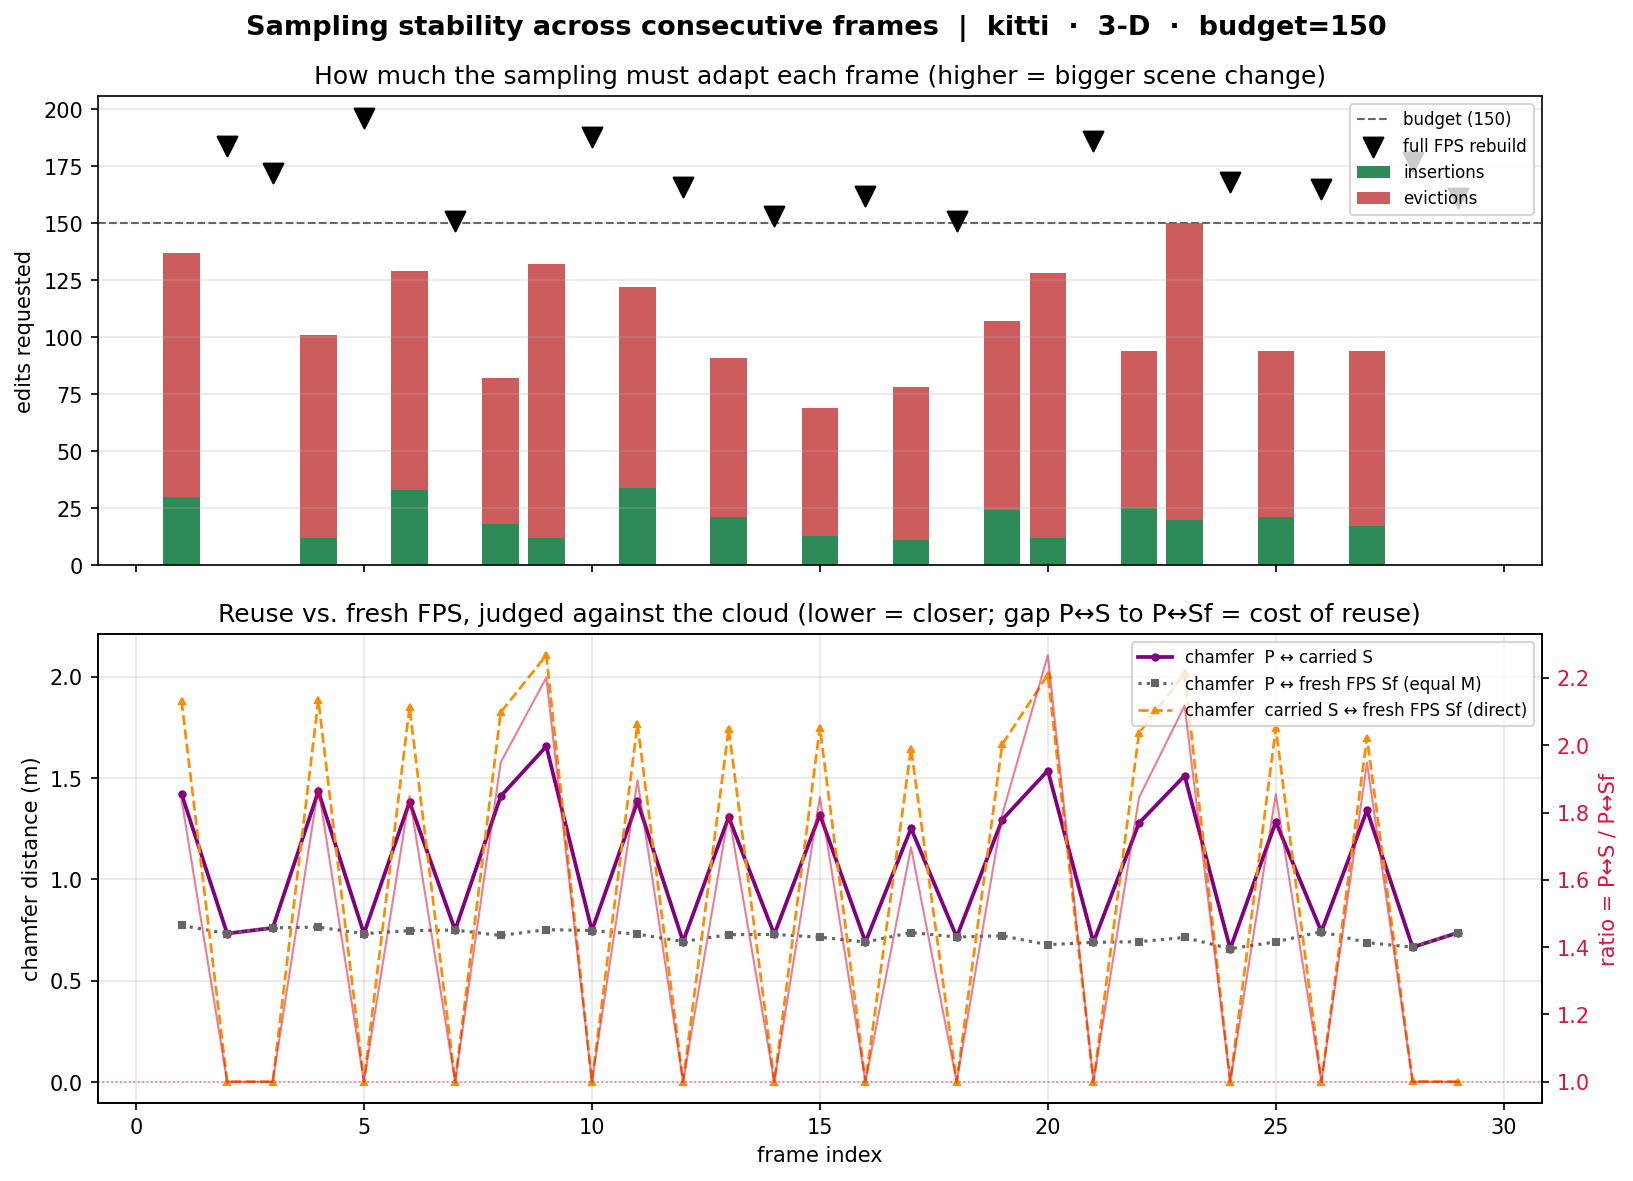
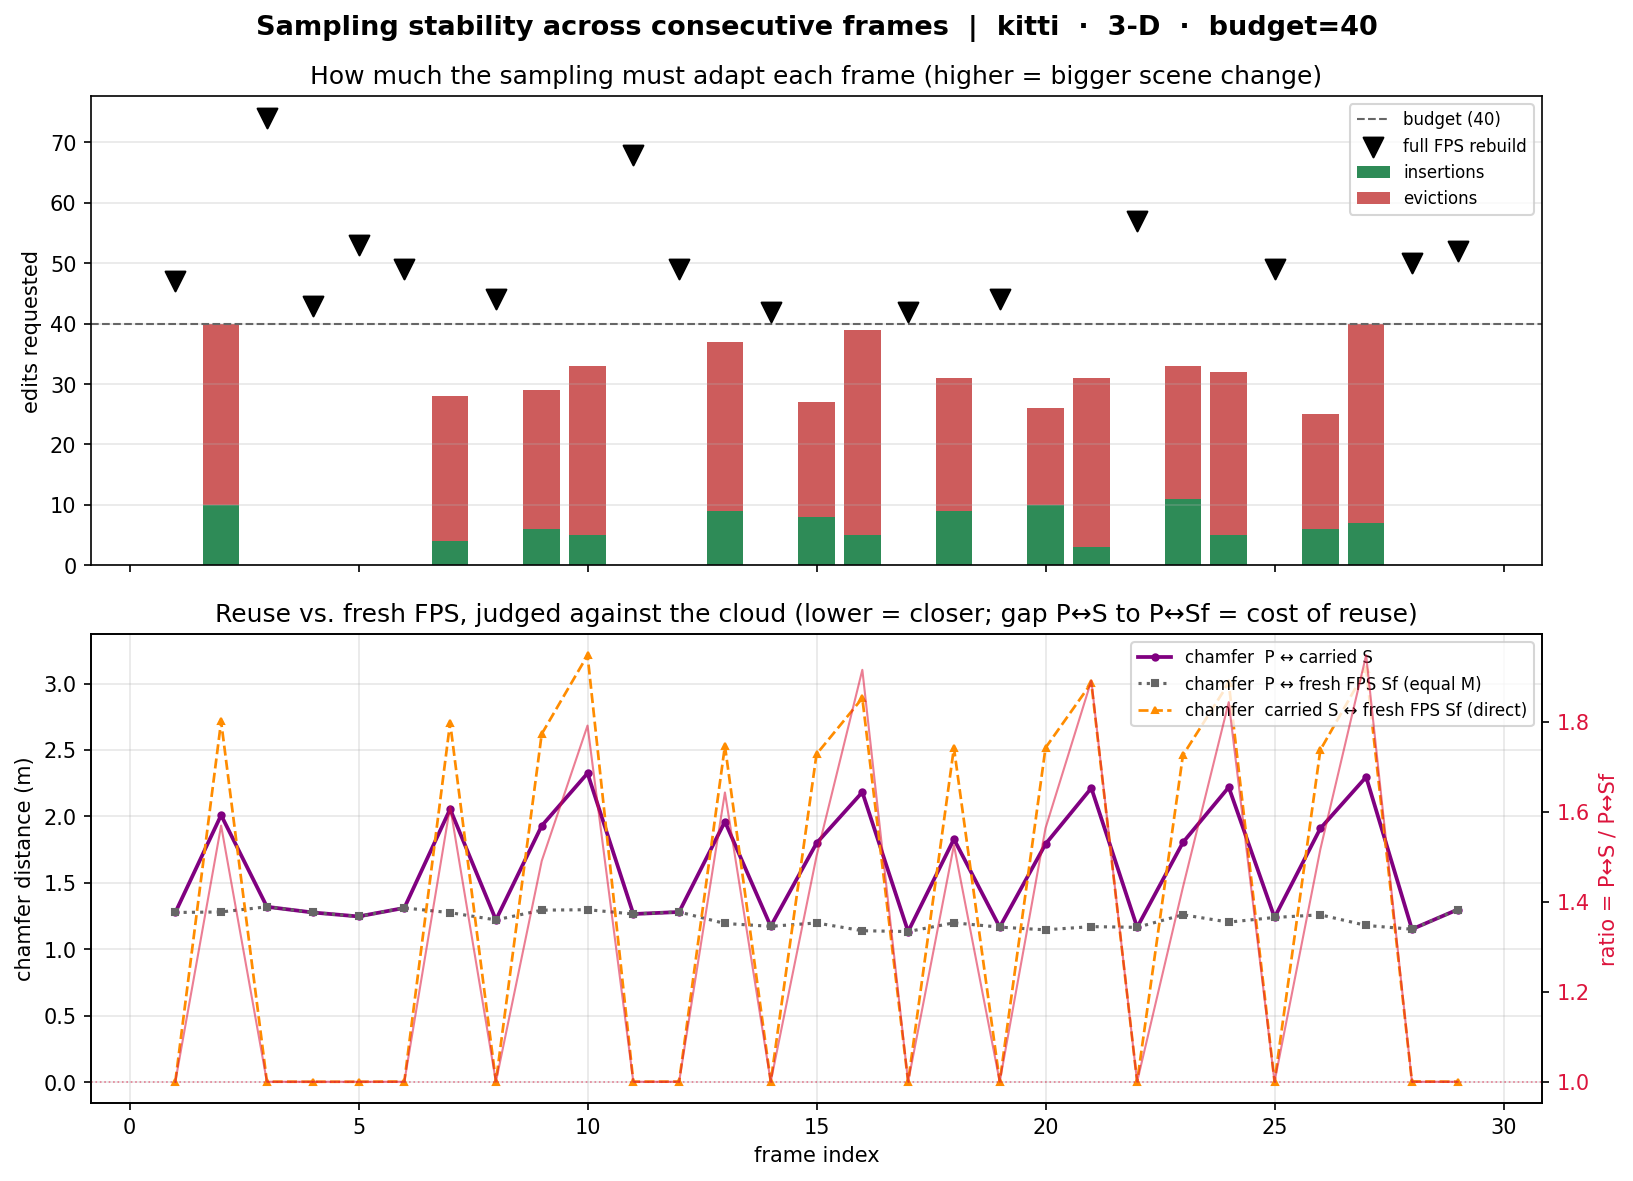
feat: centralize configuration parameters in config.py and update demos to use them

diff --git a/config.py b/config.py
@@ -1,0 +1,59 @@
+import os
+from pathlib import Path
+
+_ENV_FILE = Path(__file__).resolve().parent / ".env"
+
+
+def _load_dotenv(path: Path) -> dict[str, str]:
+    """Parse a flat ``KEY=VALUE`` .env file. Blank lines, ``#`` comments and
+    inline ``# ...`` trailers are ignored; surrounding quotes are stripped."""
+    out: dict[str, str] = {}
+    if not path.exists():
+        return out
+    for raw in path.read_text().splitlines():
+        line = raw.strip()
+        if not line or line.startswith("#") or "=" not in line:
+            continue
+        key, _, val = line.partition("=")
+        val = val.split("#", 1)[0].strip().strip('"').strip("'")
+        out[key.strip()] = val
+    return out
+
+
+_DOTENV = _load_dotenv(_ENV_FILE)
+
+
+def _get(key: str, default):
+    """OS env overrides .env, which overrides the built-in default."""
+    if key in os.environ:
+        return os.environ[key]
+    if key in _DOTENV:
+        return _DOTENV[key]
+    return default
+
+
+def get_int(key: str, default: int) -> int:
+    return int(_get(key, default))
+
+
+def get_float(key: str, default: float) -> float:
+    return float(_get(key, default))
+
+
+def get_str(key: str, default: str) -> str:
+    return str(_get(key, default))
+
+
+def get_bool(key: str, default: bool) -> bool:
+    v = _get(key, default)
+    if isinstance(v, bool):
+        return v
+    return str(v).strip().lower() in ("1", "true", "yes", "on")
+
+
+# ── Shared run parameters ────────────────────────────────────────────────────
+SAMPLES   = get_int("SAMPLES", 64)         # FPS sample count (M), all demos
+DIMS      = get_int("DIMS", 3)             # 2 = top-down view, 3 = full 3-D
+MAX_RANGE = get_float("MAX_RANGE", 40.0)   # horizontal crop radius, metres
+MIN_Z     = get_float("MIN_Z", -1.5)       # ground-removal height, metres
+BUDGET    = get_int("BUDGET", 40)          # max edits/frame before full FPS rebuild

diff --git a/phase_3/temporal_demo.py b/phase_3/temporal_demo.py
@@ -15,8 +15,7 @@ sys.path.insert(0, os.path.join(_HERE, ".."))
 from data_io import list_frames, load_lidar_bin, chamfer_distance  # noqa: E402
 from fps import farthest_point_sampling             # noqa: E402
 from correct import correct                         # noqa: E402
-
-NUM_SAMPLES = 1024
+import config                                        # noqa: E402
 
 def _resize_to(P, S, target):
     """Hold the sample count at exactly ``target``.
@@ -49,18 +48,19 @@ def main():
     ap.add_argument("--dataset", choices=["nuscenes", "kitti"], default="nuscenes")
     ap.add_argument("--start", type=int, default=0, help="First frame index")
     ap.add_argument("--num-frames", type=int, default=30)
-    ap.add_argument("--dims", type=int, choices=[2, 3], default=3)
-    ap.add_argument("--max-range", type=float, default=40.0)
-    ap.add_argument("--min-z", type=float, default=-1.5)
-    ap.add_argument("--samples", type=int, default=NUM_SAMPLES)
+    ap.add_argument("--dims", type=int, choices=[2, 3], default=config.DIMS)
+    ap.add_argument("--max-range", type=float, default=config.MAX_RANGE)
+    ap.add_argument("--min-z", type=float, default=config.MIN_Z)
+    ap.add_argument("--samples", type=int, default=config.SAMPLES)
     ap.add_argument("--fixed-samples", action=argparse.BooleanOptionalAction,
                     default=True,
                     help="Hold the sample count constant at --samples every frame "
                          "(top up worst-covered spots / trim most-redundant samples "
                          "after each correction). Use --no-fixed-samples to let M "
                          "drift as insertions/evictions fall out.")
-    ap.add_argument("--budget", type=int, default=40,
-                    help="Max edits/frame before falling back to full FPS.")
+    ap.add_argument("--budget", type=int, default=config.BUDGET,
+                    help="Max edits/frame before falling back to full FPS "
+                         "(scale up with --samples).")
     ap.add_argument("--coverage-factor", type=float, default=2.0)
     ap.add_argument("--separation-factor", type=float, default=0.5)
     ap.add_argument("--min-occupancy", type=int, default=1)
@@ -212,7 +212,6 @@ def _plot(rec, args):
         plt.show()
     except Exception:
         pass
-
 
 if __name__ == "__main__":
     main()

diff --git a/phase_1/demo.py b/phase_1/demo.py
@@ -17,8 +17,7 @@ from primitives import (
     delaunay_neighbors,
     min_pairwise_distance,
 )
-
-NUM_SAMPLES = 64
+import config
 
 
 def generate_mimic_2d(N: int = 10_000, seed: int = 42) -> torch.Tensor:
@@ -100,15 +99,16 @@ def main():
                         help="Load a real frame from data/<dataset> by index.")
     parser.add_argument("--frame", type=int, default=0,
                         help="Frame index within --dataset (default: 0)")
-    parser.add_argument("--dims", type=int, choices=[2, 3], default=3,
+    parser.add_argument("--dims", type=int, choices=[2, 3], default=config.DIMS,
                         help="Run the engine in 3-D (x,y,z) or 2-D top-down (x,y). "
-                             "Default: 3 for real data.")
+                             f"Default: {config.DIMS} (config DIMS).")
     parser.add_argument("--max-range", type=float, default=None,
                         help="Drop points beyond this horizontal radius (m).")
     parser.add_argument("--min-z", type=float, default=None,
                         help="Drop points below this height (rough ground removal).")
-    parser.add_argument("--samples", type=int, default=NUM_SAMPLES,
-                        help="Number of FPS samples (default: 64)")
+    parser.add_argument("--samples", type=int, default=config.SAMPLES,
+                        help=f"Number of FPS samples (default: {config.SAMPLES}, "
+                             "config SAMPLES)")
     args = parser.parse_args()
 
     dims = args.dims

diff --git a/phase_2/demo.py b/phase_2/demo.py
@@ -30,8 +30,7 @@ sys.path.insert(0, os.path.join(os.path.dirname(os.path.abspath(__file__)), ".."
 from data_io import load_lidar_bin, load_frame  # noqa: E402
 from demo import generate_mimic_2d, _voronoi_finite_segments  # noqa: E402
 from fused import analyze  # noqa: E402
-
-NUM_SAMPLES = 64
+import config  # noqa: E402
 
 
 def build_imperfect_samples(P: torch.Tensor, m: int, n_stray: int = 4, seed: int = 0):
@@ -70,13 +69,13 @@ def main():
                         help="Load a real frame from data/<dataset> by index.")
     parser.add_argument("--frame", type=int, default=0,
                         help="Frame index within --dataset (default: 0)")
-    parser.add_argument("--dims", type=int, choices=[2, 3], default=3,
+    parser.add_argument("--dims", type=int, choices=[2, 3], default=config.DIMS,
                         help="Run the engine in 3-D (x,y,z) or 2-D top-down (x,y).")
     parser.add_argument("--max-range", type=float, default=None,
                         help="Drop points beyond this horizontal radius (m).")
     parser.add_argument("--min-z", type=float, default=None,
                         help="Drop points below this height (rough ground removal).")
-    parser.add_argument("--samples", type=int, default=NUM_SAMPLES)
+    parser.add_argument("--samples", type=int, default=config.SAMPLES)
     parser.add_argument("--coverage-factor", type=float, default=1.6)
     parser.add_argument("--separation-factor", type=float, default=0.45)
     parser.add_argument("--min-occupancy", type=int, default=1)

diff --git a/README.md b/README.md
@@ -403,6 +403,34 @@ The generated plot has two stacked panels: **(top)** edits requested per frame
 
 ---
 
+## Configuration (`config.py` + `.env`)
+
+The defaults that used to be duplicated across the demos (sample count, crop,
+budget, …) now live in one place: **`config.py`**. Each value resolves in this
+order, first match wins:
+
+1. a **command-line flag** (e.g. `--samples 128`) — always highest priority;
+2. an **OS environment variable** (e.g. `SAMPLES=128 python phase_3/...`);
+3. a **`KEY=VALUE` line in a `.env`** file at the repo root;
+4. the **built-in default** in `config.py`.
+
+To change defaults without touching code, copy the template and edit it:
+
+```bash
+cp .env.example .env      # then edit .env
+```
+
+| Variable | Default | Meaning |
+|---|---|---|
+| `SAMPLES` | `64` | FPS sample count `M`, used by **all** demos. |
+| `DIMS` | `3` | `2` = top-down view, `3` = full 3-D. |
+| `MAX_RANGE` | `40` | Horizontal crop radius, metres (temporal demo default). |
+| `MIN_Z` | `-1.5` | Ground-removal height, metres (temporal demo default). |
+| `BUDGET` | `40` | Max edits/frame before a full FPS rebuild — **scale this up with `SAMPLES`** (at `M=1024` it must be in the hundreds, or the loop rebuilds from scratch every frame). |
+
+`.env` is git-ignored (your local overrides stay local); `.env.example` is the
+committed template.
+
 ## Trying it out
 
 All phases share a single virtual environment at the repo root. Set it up once: